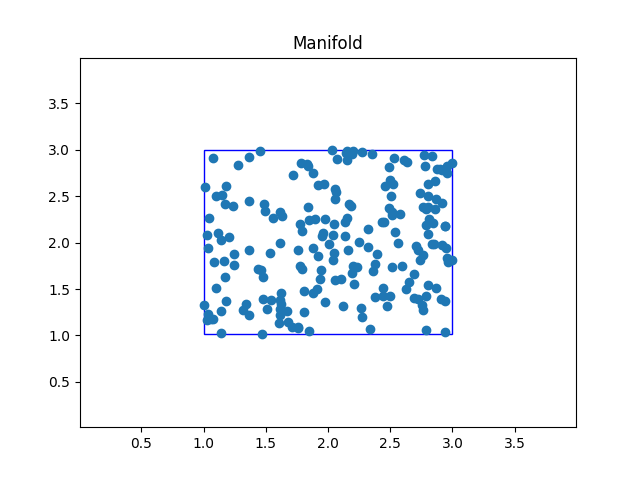
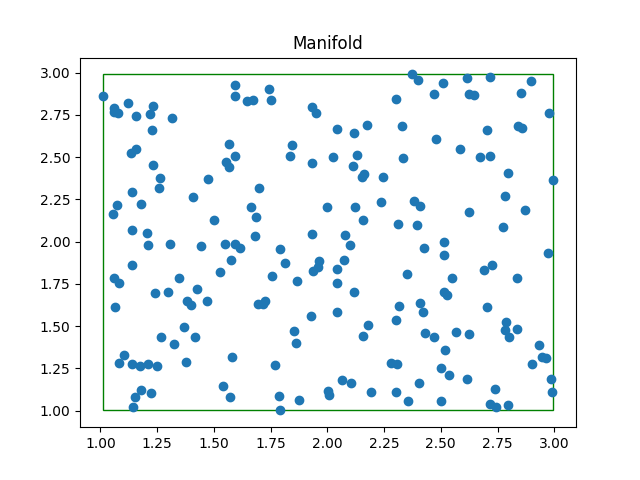
Minor updates to visualizations, Plots updated.

diff --git a/simulations/simple_square.py b/simulations/simple_square.py
@@ -50,10 +50,7 @@ def _prepare_plot(V):
 def visualize_manifold(V):
     xmin, ymin, xmax, ymax, w, h, curr_ax = _prepare_plot(V)
 
-    curr_ax.set_xlim(xmin - 1, xmax + 1)
-    curr_ax.set_ylim(ymin - 1, ymax + 1)
-
-    square = patches.Rectangle((xmin, ymin), w, h, linewidth=1, edgecolor="b", facecolor="none")
+    square = patches.Rectangle((xmin, ymin), w, h, linewidth=1, edgecolor="g", facecolor="none")
     curr_ax.add_patch(square)
 
     curr_ax.scatter(V[:, 0], V[:, 1])
@@ -64,7 +61,7 @@ def visualize_manifold(V):
 def visualize_init_W(V, W):
     xmin, ymin, xmax, ymax, w, h, curr_ax = _prepare_plot(V)
 
-    square = patches.Rectangle((xmin, ymin), w, h, linewidth=1, edgecolor="b", facecolor="none")
+    square = patches.Rectangle((xmin, ymin), w, h, linewidth=1, edgecolor="g", facecolor="none")
     curr_ax.add_patch(square)
     curr_ax.scatter(W[0, :], W[1, :])
 
@@ -74,7 +71,7 @@ def visualize_init_W(V, W):
 def visualize_trn(V, W, C):
     xmin, ymin, xmax, ymax, w, h, curr_ax = _prepare_plot(V)
 
-    square = patches.Rectangle((xmin, ymin), w, h, linewidth=1, edgecolor="b", facecolor="none")
+    square = patches.Rectangle((xmin, ymin), w, h, linewidth=1, edgecolor="g", facecolor="none")
     curr_ax.add_patch(square)
 
     curr_ax.scatter(W[0, :], W[1, :])
@@ -107,7 +104,7 @@ def visualize_trn(V, W, C):
         x2s.append(x2)
         y2s.append(y2)
 
-    curr_ax.plot(x1s, y1s, x2s, y2s, marker='o')
+    curr_ax.plot(x1s, y1s, x2s, y2s, marker='o', color='b')
 
     plt.title("Manifold with Adapted Pointers")
 
